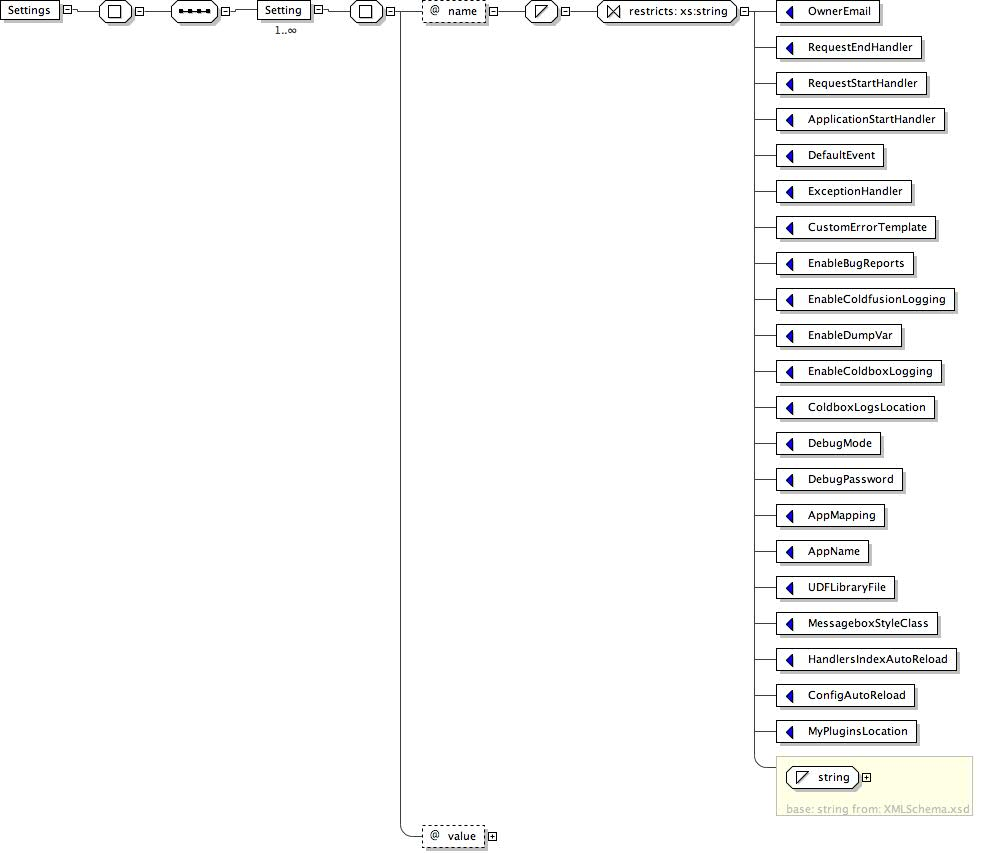
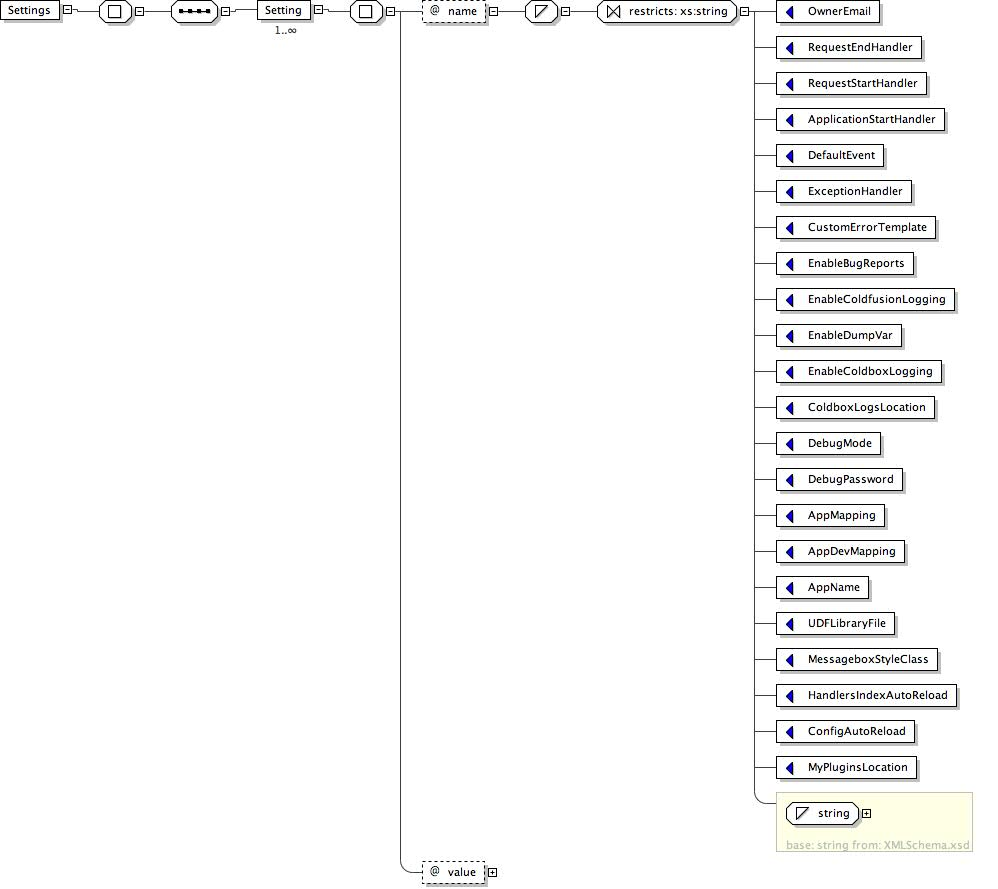
Updated for AppDevMapping
git-svn-id: http://subversion.assembla.com/svn/coldbox/coldbox/trunk@207 aa9c7f36-201a-0410-b936-d08bb24d9cb0

diff --git a/documents/SchemaDocs/index.html b/documents/SchemaDocs/index.html
@@ -3,7 +3,7 @@
   PUBLIC "-//W3C//DTD XHTML 1.0 Strict//EN" "http://www.w3.org/TR/xhtml1/DTD/xhtml1-strict.dtd">
 <html xmlns="http://www.w3.org/1999/xhtml">
    <head>
-      <title>Documentation for ColdBox 1.1.0's Config.xml - config.xsd</title>
+      <title>Documentation for ColdBox 1.1.0 Config.xml - config.xsd</title>
       <meta http-equiv="Content-Type" content="text/xml; charset=UTF-8"/>
       <style type="text/css">
 /* ~~~~~~~~~~~~~~~~~~~~~~~~~~~~~~~~~~~~~~~~~~~~~~~~~~~~~~ */
@@ -725,7 +725,7 @@ function viewDocumentation(compDesc, compName, docTextArray) {
    </head>
    <body>
       <h1>
-         <a name="top">Documentation for ColdBox 1.1.0's Config.xml</a>
+         <a name="top">Documentation for ColdBox 1.1.0 Config.xml</a>
       </h1>
       <div style="float: right;">
          <div id="printerControls" style="display:none;">
@@ -2485,7 +2485,7 @@ if (gc != null) {
                <div style="margin-left: 1.5em">&lt;Setting<br/>
                   <span style="margin-left: 0.5em"> name="<span class="constraint">
                         <span class="type">
-                           <a href="#ns_xs" title="Find out namespace of 'xs' prefix">xs</a>:string</span> (<em>value</em> comes from list: {'OwnerEmail'|'RequestEndHandler'|'RequestStartHandler'|'ApplicationStartHandler'|'DefaultEvent'|'ExceptionHandler'|'CustomErrorTemplate'|'EnableBugReports'|'EnableColdfusionLogging'|'EnableDumpVar'|'EnableColdboxLogging'|'ColdboxLogsLocation'|'DebugMode'|'DebugPassword'|'AppMapping'|'AppName'|'UDFLibraryFile'|'MessageboxStyleClass'|'HandlersIndexAutoReload'|'ConfigAutoReload'|'MyPluginsLocation'})</span> 
+                           <a href="#ns_xs" title="Find out namespace of 'xs' prefix">xs</a>:string</span> (<em>value</em> comes from list: {'OwnerEmail'|'RequestEndHandler'|'RequestStartHandler'|'ApplicationStartHandler'|'DefaultEvent'|'ExceptionHandler'|'CustomErrorTemplate'|'EnableBugReports'|'EnableColdfusionLogging'|'EnableDumpVar'|'EnableColdboxLogging'|'ColdboxLogsLocation'|'DebugMode'|'DebugPassword'|'AppMapping'|'AppDevMapping'|'AppName'|'UDFLibraryFile'|'MessageboxStyleClass'|'HandlersIndexAutoReload'|'ConfigAutoReload'|'MyPluginsLocation'})</span> 
                      <span class="occurs">[1]</span> 
                      <p class="documentation">'The name of the framework\'s settings.'</p>"</span>
                   <br/>
@@ -2565,6 +2565,8 @@ if (gc != null) {
                                        <span class="scTag">value</span>="<span class="scContent">DebugPassword</span>"/&gt;</div>
                                     <div style="margin-left: 1.5em">&lt;<span class="scTag">xs:enumeration</span> 
                                        <span class="scTag">value</span>="<span class="scContent">AppMapping</span>"/&gt;</div>
+                                    <div style="margin-left: 1.5em">&lt;<span class="scTag">xs:enumeration</span> 
+                                       <span class="scTag">value</span>="<span class="scContent">AppDevMapping</span>"/&gt;</div>
                                     <div style="margin-left: 1.5em">&lt;<span class="scTag">xs:enumeration</span> 
                                        <span class="scTag">value</span>="<span class="scContent">AppName</span>"/&gt;</div>
                                     <div style="margin-left: 1.5em">&lt;<span class="scTag">xs:enumeration</span> 
